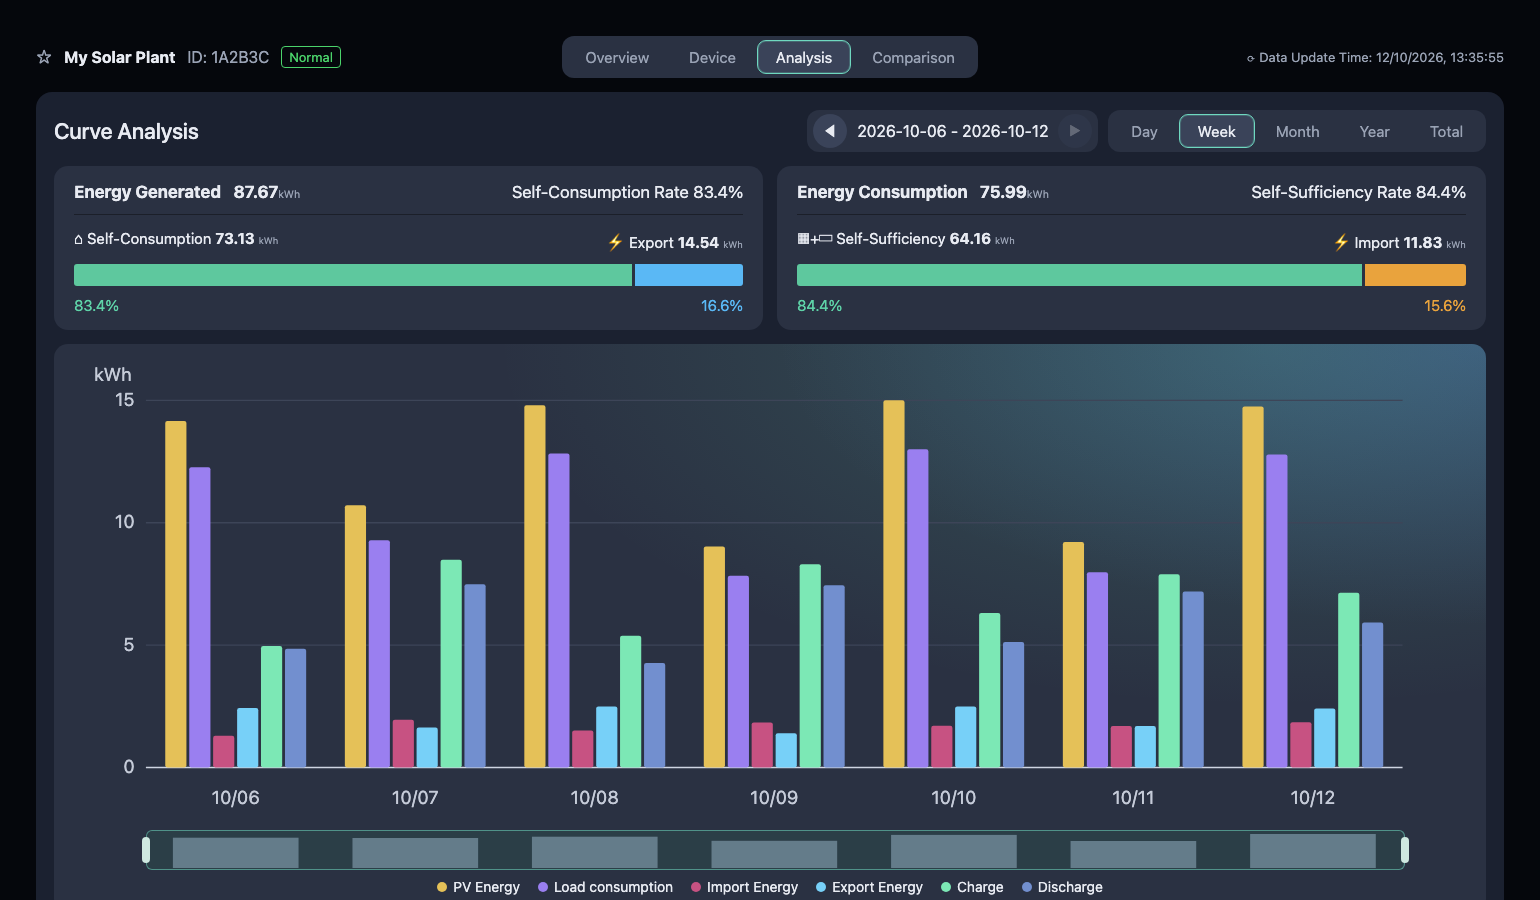
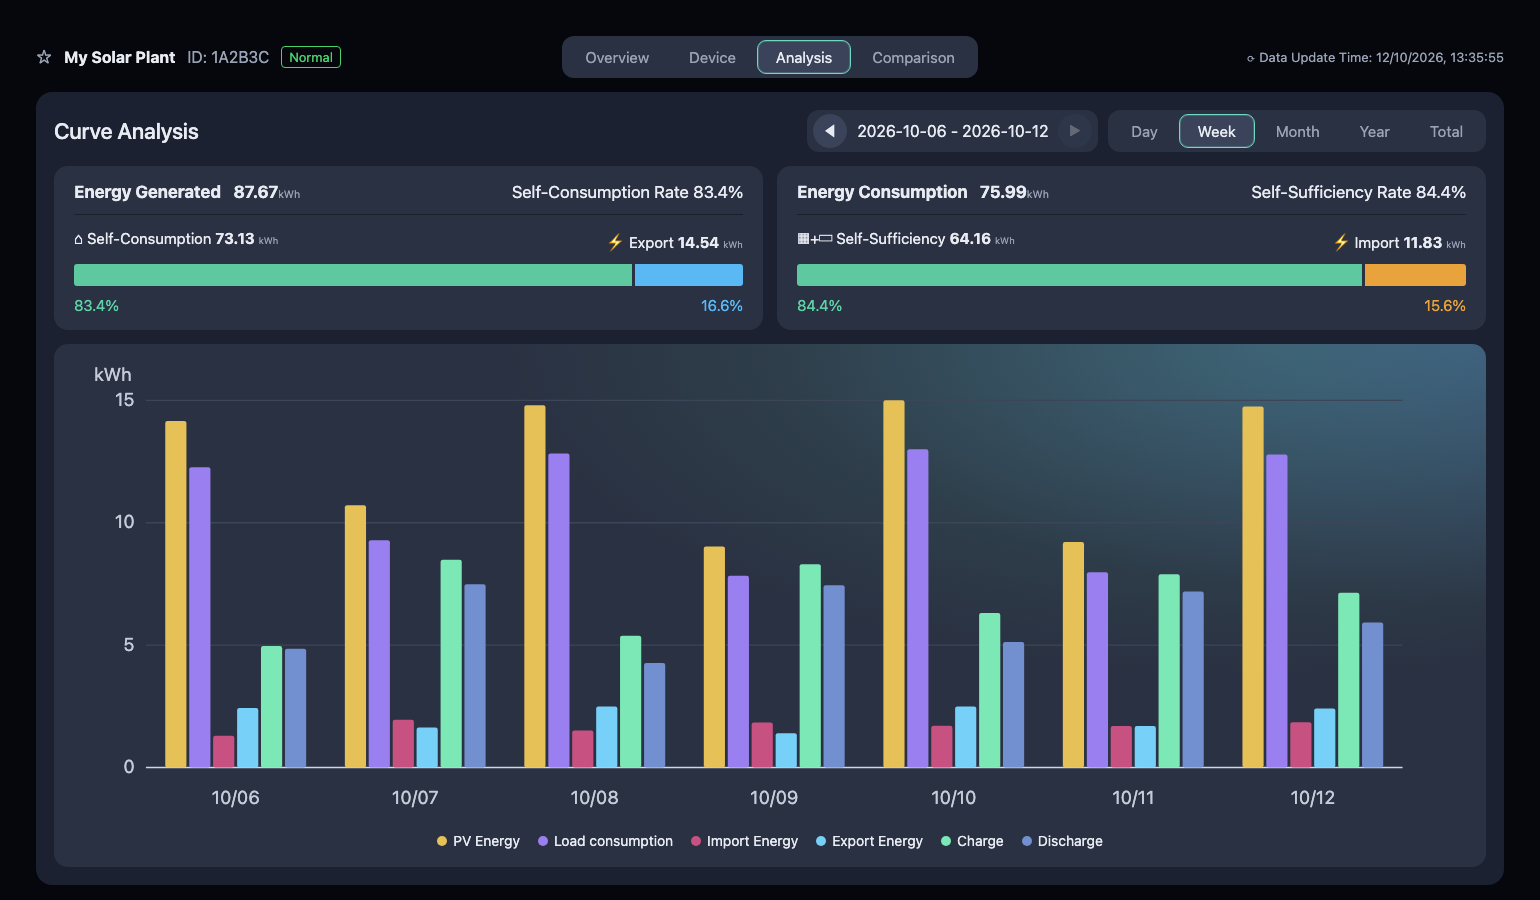
fix: zoom strip shrinking while dragging; zoom line charts only
The chart box is redrawn while zooming, so drags that kept reading the size
of the replaced (detached, zero-width) elements pushed the window to its
minimum. Measure the strip and the chart once when a drag starts. Bar
charts no longer zoom.

Changed region(s): [[0.0, 0.9022, 0.9974, 1.0]]

diff --git a/dist/saj-elekeeper-card.js b/dist/saj-elekeeper-card.js
@@ -15,7 +15,7 @@
  *   weather: weather.home      # optional, temperature shown on the overview
  */
 
-const CARD_VERSION = "1.2.0";
+const CARD_VERSION = "1.2.1";
 const DOMAIN = "saj_esolar_cloud";
 
 // Sensor keys that identify each kind of device in the entity registry
@@ -278,16 +278,6 @@ function miniLine(series, start, end) {
     .map((p, i) => `${i ? "L" : "M"}${(((p[0] - start) / (end - start)) * 1000).toFixed(1)},${(38 - ((p[1] - lo) / (hi - lo)) * 34).toFixed(1)}`)
     .join("");
   return `<path d="${d}" fill="none" stroke="${s.color}" stroke-width="1.5" vector-effect="non-scaling-stroke" opacity="0.8"/>`;
-}
-
-/** Mini bars (sum of the series) per category, for the overview strip. */
-function miniBars(categories, series) {
-  const totals = categories.map((_, i) => series.reduce((acc, s) => acc + (isNum(s.values[i]) ? Number(s.values[i]) : 0), 0));
-  const hi = Math.max(1, ...totals);
-  const w = 1000 / Math.max(categories.length, 1);
-  return totals
-    .map((v, i) => `<rect x="${(i * w + w * 0.15).toFixed(1)}" y="${(38 - (v / hi) * 34).toFixed(1)}" width="${(w * 0.7).toFixed(1)}" height="${((v / hi) * 34).toFixed(1)}" fill="#7f8ba3" opacity="0.7"/>`)
-    .join("");
 }
 
 const legend = (series) =>
@@ -711,7 +701,8 @@ class SajElekeeperCard extends HTMLElement {
   _chartHtml(id) {
     const spec = this._charts[id];
     if (!spec) return "";
-    const z = this._zoom?.[id];
+    // Only the line (time) charts zoom; bar charts always show every bar
+    const z = spec.type === "line" ? this._zoom?.[id] : null;
     const a = z && z.key === spec.key ? z.a : 0;
     const b = z && z.key === spec.key ? z.b : 1;
     let chart;
@@ -723,19 +714,13 @@ class SajElekeeperCard extends HTMLElement {
       chart = lineChartSvg(id, spec.series, spec.viewStart, spec.viewEnd, spec.leftUnit, spec.rightUnit);
       mini = miniLine(spec.series, spec.start, spec.end);
     } else {
-      const n = spec.allCategories.length;
-      const i0 = Math.max(0, Math.min(n - 1, Math.floor(a * n + 1e-6)));
-      const i1 = Math.max(i0 + 1, Math.min(n, Math.ceil(b * n - 1e-6)));
-      spec.offset = i0;
-      spec.categories = spec.allCategories.slice(i0, i1);
-      spec.series = spec.allSeries.map((s) => ({ ...s, values: s.values.slice(i0, i1) }));
+      spec.categories = spec.allCategories;
+      spec.series = spec.allSeries;
       chart = barChartSvg(id, spec.categories, spec.series, spec.unit);
-      mini = miniBars(spec.allCategories, spec.allSeries);
     }
     const zoomed = a > 0.0005 || b < 0.9995;
     const reset = zoomed ? `<button class="zoom-reset" data-zoom-reset="${id}" title="Reset zoom">↺</button>` : "";
-    // Zooming makes little sense with a handful of bars
-    const strip = spec.type === "line" || spec.allCategories.length > 4 ? zoomStrip(id, mini, a, b) : "";
+    const strip = spec.type === "line" ? zoomStrip(id, mini, a, b) : "";
     return `${reset}${chart}${strip}${legend(spec.legendSeries || spec.allSeries || spec.series)}<div class="tooltip" hidden></div>`;
   }
 
@@ -840,7 +825,8 @@ class SajElekeeperCard extends HTMLElement {
   _setZoom(id, a, b) {
     const spec = this._charts[id];
     if (!spec) return;
-    const min = spec.type === "line" ? 1 / 48 : 1 / Math.max(spec.allCategories.length, 1); // 30 min, or one bar
+    if (spec.type !== "line") return;
+    const min = 1 / 48; // 30 minutes of a day
     let w = Math.max(min, Math.min(1, b - a));
     a = Math.max(0, Math.min(1 - w, a));
     (this._zoom ??= {})[id] = { key: spec.key, a, b: a + w };
@@ -863,12 +849,15 @@ class SajElekeeperCard extends HTMLElement {
     if (!svg) return;
     const id = svg.dataset.chart;
     this._bindTooltip(svg);
+    if (this._charts[id]?.type !== "line") return;
     const current = () => {
       const z = this._zoom?.[id];
       return z && z.key === this._charts[id]?.key ? [z.a, z.b] : [0, 1];
     };
-    const plotFraction = (clientX) => {
-      const r = svg.getBoundingClientRect();
+    // The chart box is redrawn while zooming, replacing these elements: drags
+    // keep the size measured when they start instead of reading detached ones
+    const plotFraction = (clientX, r = svg.getBoundingClientRect()) => {
+      if (!r.width) return 0.5;
       const vx = ((clientX - r.left) / r.width) * CH.w;
       return Math.max(0, Math.min(1, (vx - CH.l) / (CH.w - CH.l - CH.r)));
     };
@@ -890,9 +879,10 @@ class SajElekeeperCard extends HTMLElement {
     svg.addEventListener("pointerdown", (ev) => {
       const [a0, b0] = current();
       if (b0 - a0 >= 0.999 || ev.button !== 0) return;
-      const x0 = plotFraction(ev.clientX);
+      const rect = svg.getBoundingClientRect();
+      const x0 = plotFraction(ev.clientX, rect);
       const move = (e) => {
-        const dx = (plotFraction(e.clientX) - x0) * (b0 - a0);
+        const dx = (plotFraction(e.clientX, rect) - x0) * (b0 - a0);
         this._setZoom(id, a0 - dx, b0 - dx);
       };
       const up = () => (window.removeEventListener("pointermove", move), window.removeEventListener("pointerup", up));
@@ -901,12 +891,11 @@ class SajElekeeperCard extends HTMLElement {
     });
     const strip = box.querySelector(".zoom");
     if (strip) {
-      const frac = (clientX) => {
-        const r = strip.getBoundingClientRect();
-        return Math.max(0, Math.min(1, (clientX - r.left) / r.width));
-      };
       strip.addEventListener("pointerdown", (ev) => {
         ev.preventDefault();
+        const rect = strip.getBoundingClientRect();
+        if (!rect.width) return;
+        const frac = (clientX) => Math.max(0, Math.min(1, (clientX - rect.left) / rect.width));
         const [a0, b0] = current();
         const f0 = frac(ev.clientX);
         const handle = ev.target.dataset?.h;

diff --git a/README.md b/README.md
@@ -50,9 +50,9 @@ card itself from the Home Assistant history and statistics.
   self-consumption and self-sufficiency summary.
 - **Comparison**: any energy counter per month, quarter or year, comparing
   years side by side.
-- **Zoomable charts**, as in the portal: an overview strip under each chart
-  with a window you can resize and drag, Ctrl/⌘ + mouse wheel or pinch to
-  zoom, drag to pan, and double-click to reset.
+- **Zoomable power curves**, as in the portal: an overview strip under the
+  day chart with a window you can resize and drag, Ctrl/⌘ + mouse wheel or
+  pinch to zoom, drag to pan, and double-click to reset.
 - Finds the integration's sensors on its own, so there are no entity IDs to
   configure.
 - Dark theme matching the portal, with layouts for desktop, tablet and phone.
@@ -113,7 +113,7 @@ straight to [Adding the card](#adding-the-card).
 
 3. Register it as a resource: **Settings → Dashboards → ⋮ → Resources →
    Add resource**.
-   - URL: `/local/saj-elekeeper-card.js?v=1.2.0`
+   - URL: `/local/saj-elekeeper-card.js?v=1.2.1`
    - Resource type: **JavaScript module**
 
    If you do not see *Resources*, turn on **Advanced mode** in your user
@@ -262,7 +262,8 @@ Use ◀ ▶ to move between days, weeks, months or years.
 
 ### Zooming the charts
 
-The Analysis and Comparison charts zoom like the portal ones:
+The day curves (Analysis → Day) zoom like the portal ones; the bar charts
+always show every bar.
 
 - **Overview strip** under the chart: drag a handle to resize the visible
   window, drag the window to move it, or click elsewhere on the strip to
@@ -272,8 +273,8 @@ The Analysis and Comparison charts zoom like the portal ones:
 - **Drag** the chart to pan while zoomed.
 - **Double-click** the chart, or press **↺**, to show everything again.
 
-On the day chart the time labels follow the zoom, down to 15 minutes. The
-zoom resets when you change the period, the date or the comparison metric.
+The time labels follow the zoom, down to 15 minutes. The zoom resets when
+you change the period or the date.
 
 ### Comparison
 

diff --git a/CHANGELOG.md b/CHANGELOG.md
@@ -1,5 +1,12 @@
 # Changelog
 
+## 1.2.1
+
+- Fixed: clicking or dragging the zoom strip could shrink the zoom window to
+  its minimum (the chart is redrawn while dragging, and the drag kept reading
+  the size of the replaced, detached elements)
+- Zoom only on the line (power) charts; bar charts always show every bar
+
 ## 1.2.0
 
 - Zoomable Analysis and Comparison charts, as in the Elekeeper portal: an
